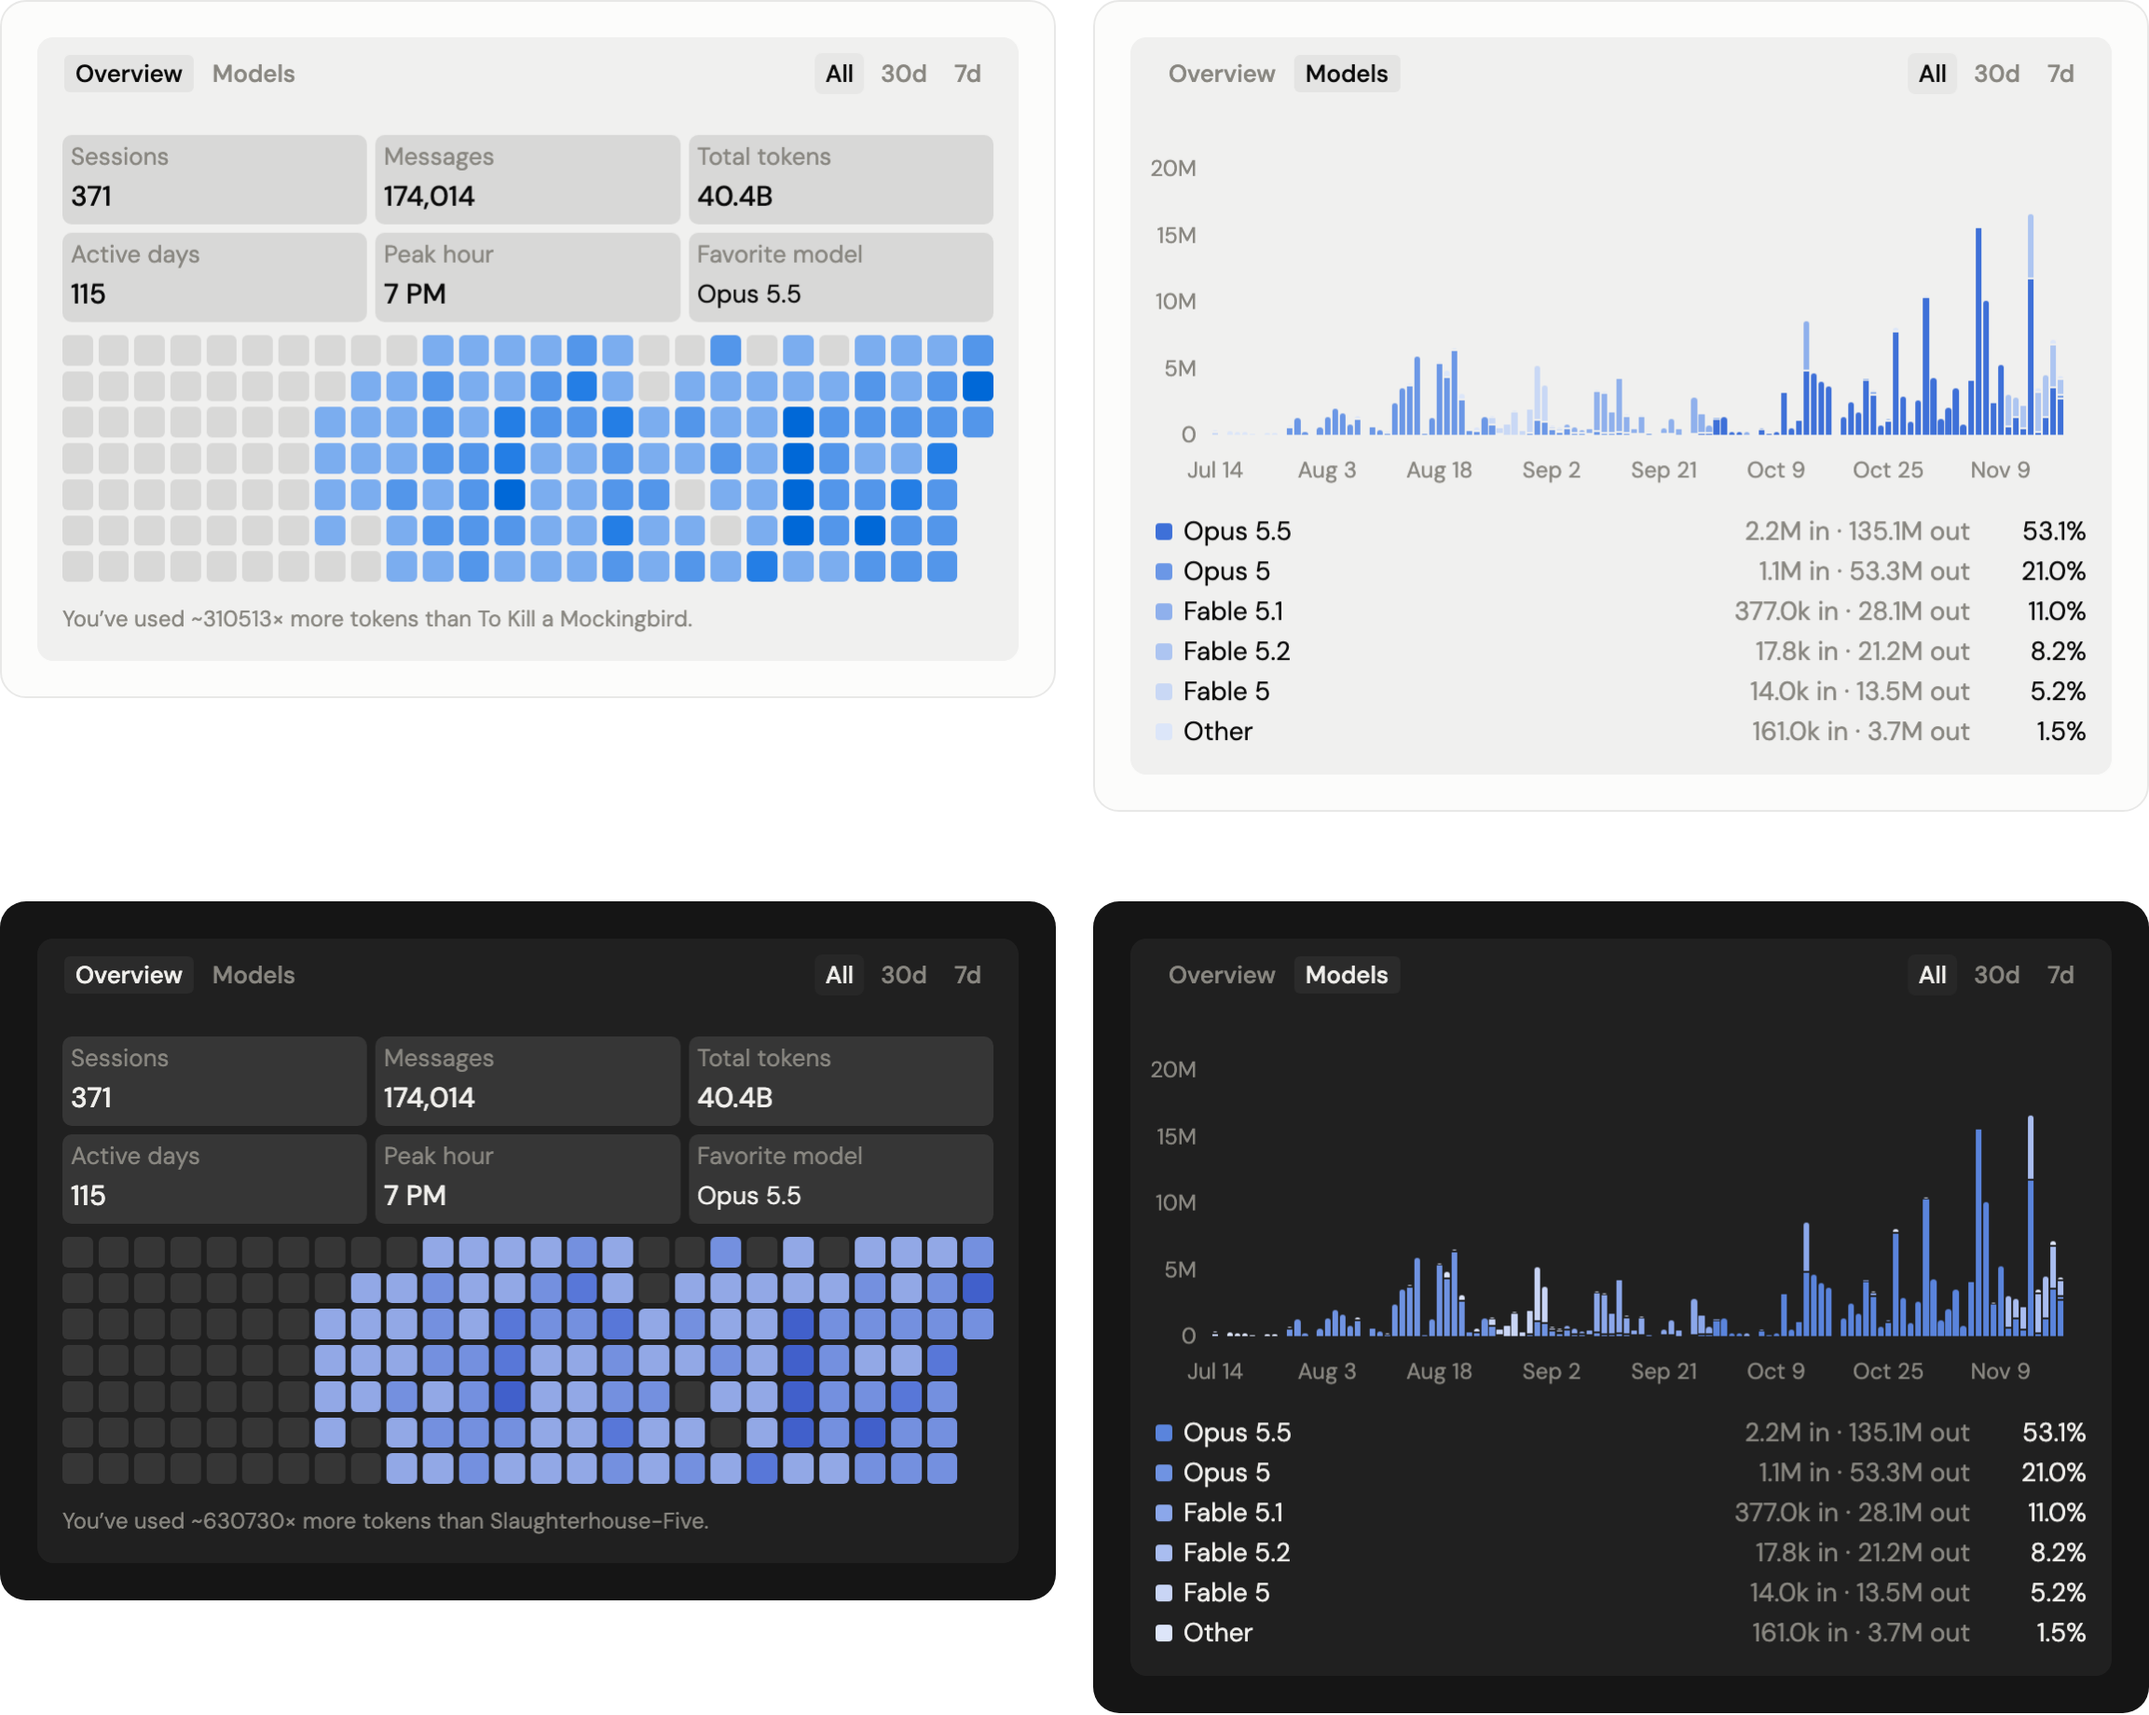
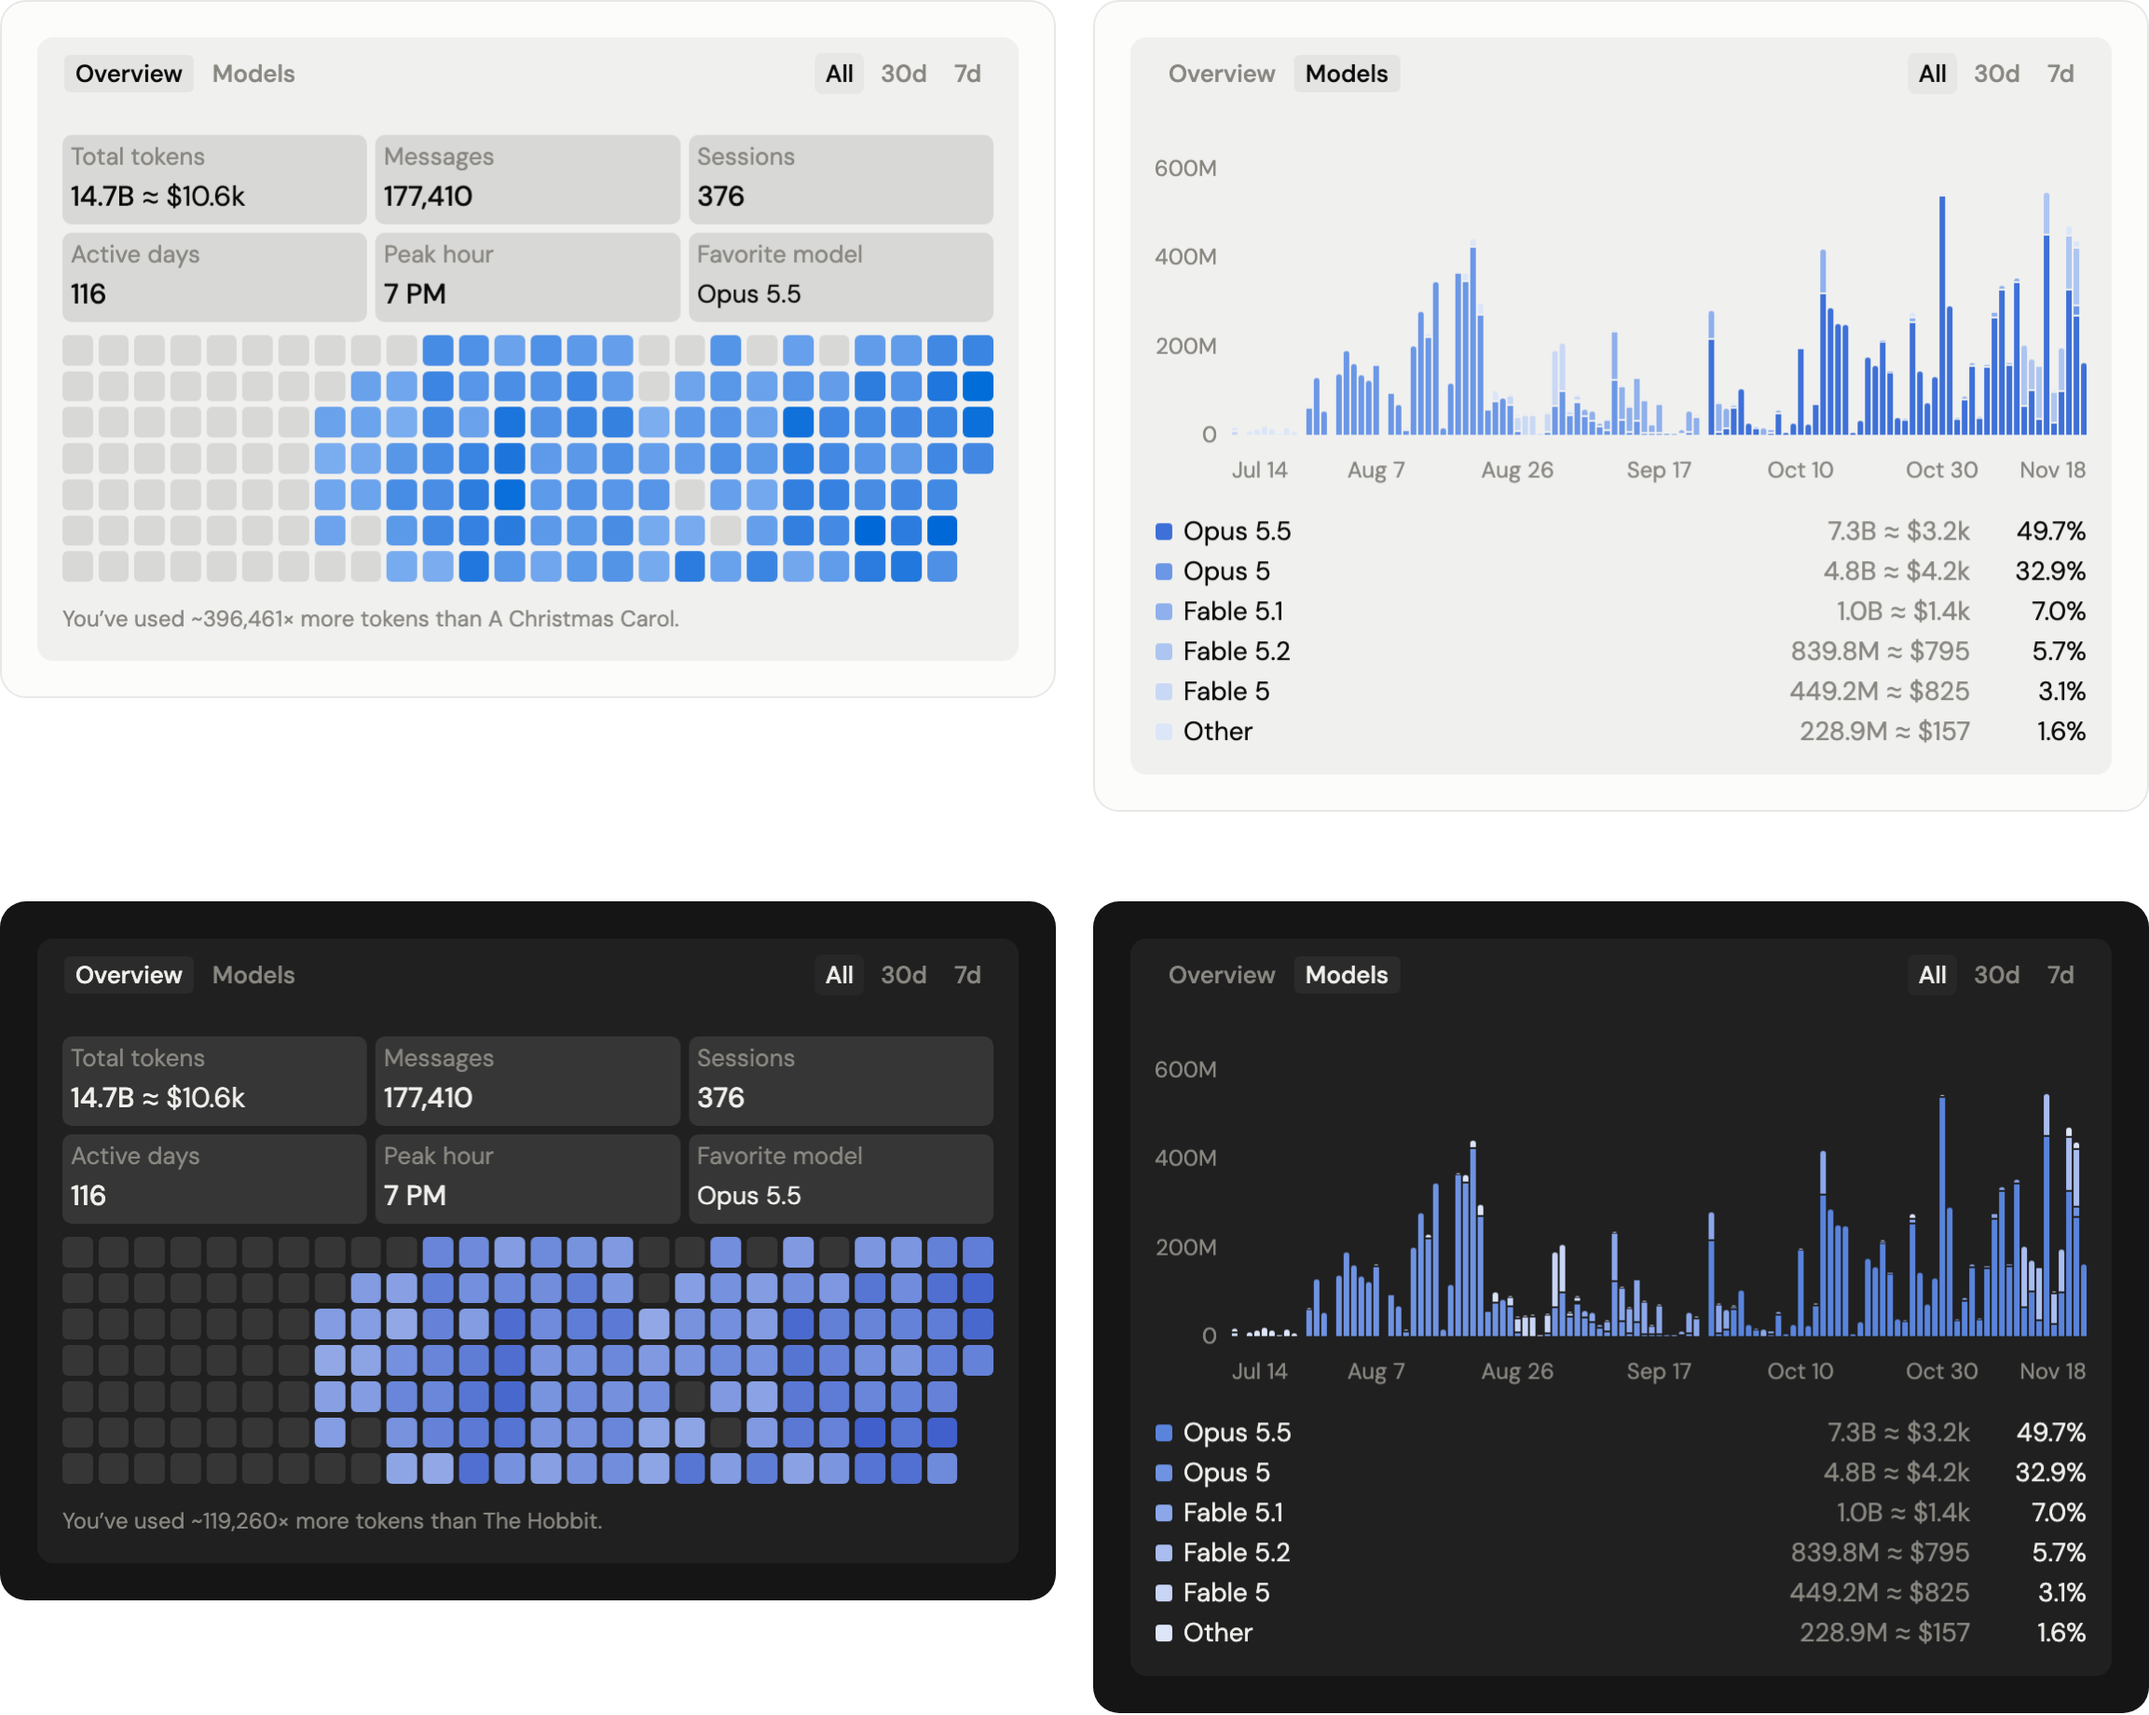
Activity grid: a smooth shade by the square root of the busiest day's share instead of four steps; thousands separated in the fact line; README picture rebuilt

diff --git a/tile.html b/tile.html
@@ -14,9 +14,8 @@
   --tile: rgb(var(--layer) / 0.1);
   --tab-on: rgb(var(--layer) / 0.05);
   --chip-on: rgb(var(--layer) / 0.035);
+  /* the grid's lightest and darkest shades, the days in between are mixed */
   --heat-1: #7badef;
-  --heat-2: #5396ea;
-  --heat-3: #247ee5;
   --heat-4: #0068d7;
   --m1: #3e70d8; --m2: #6b97e6; --m3: #8fb0ec; --m4: #adc5f1; --m5: #c9d8f5; --m6: #dce6f9;
   --tip-bg: #0b0b0b;
@@ -34,15 +33,13 @@
 @supports (color: color(display-p3 0 0 0)) {
   :root {
     --heat-1: color(display-p3 0.5255 0.6745 0.9176);
-    --heat-2: color(display-p3 0.3882 0.5804 0.8941);
-    --heat-3: color(display-p3 0.2510 0.4863 0.8706);
     --heat-4: color(display-p3 0.1490 0.4000 0.8157);
   }
 }
 @media (prefers-color-scheme: dark) {
   :root:not([data-theme="light"]) {
     --page: #151515; --ink: #f0efec; --muted: #898781; --layer: 252 252 251;
-    --heat-1: #92a8e6; --heat-2: #7490df; --heat-3: #5877d8; --heat-4: #4160cb;
+    --heat-1: #92a8e6; --heat-4: #4160cb;
     --m1: #5a84dc; --m2: #6f93e2; --m3: #8ba7ea; --m4: #a9bdf0; --m5: #c9d5f5; --m6: #dde5f9;
     --tip-bg: #f0efec; --tip-fg: #151515; --note-bg: #1d2a3d; --note-ink: #9ec5f4; --focus: #86b6ef;
     color-scheme: dark;
@@ -50,7 +47,7 @@
 }
 :root[data-theme="dark"] {
   --page: #151515; --ink: #f0efec; --muted: #898781; --layer: 252 252 251;
-  --heat-1: #92a8e6; --heat-2: #7490df; --heat-3: #5877d8; --heat-4: #4160cb;
+  --heat-1: #92a8e6; --heat-4: #4160cb;
   --m1: #5a84dc; --m2: #6f93e2; --m3: #8ba7ea; --m4: #a9bdf0; --m5: #c9d5f5; --m6: #dde5f9;
   --tip-bg: #f0efec; --tip-fg: #151515; --note-bg: #1d2a3d; --note-ink: #9ec5f4; --focus: #86b6ef;
   color-scheme: dark;
@@ -126,10 +123,7 @@ a { color: inherit; }
   gap: 3px; touch-action: manipulation;
 }
 .cell { aspect-ratio: 1; border-radius: 3px; background: var(--tile); min-width: 0; }
-.cell[data-l="1"] { background: var(--heat-1); }
-.cell[data-l="2"] { background: var(--heat-2); }
-.cell[data-l="3"] { background: var(--heat-3); }
-.cell[data-l="4"] { background: var(--heat-4); }
+.cell.on { background: color-mix(in oklab, var(--heat-4) var(--p), var(--heat-1)); }
 .cell.future { visibility: hidden; }
 .cell.out { opacity: 0.3; }
 
@@ -403,7 +397,7 @@ a { color: inherit; }
     if (state.factPick[state.range] === undefined) state.factPick[state.range] = Math.random();
     var book = books[Math.floor(state.factPick[state.range] * books.length)];
     var times = Math.floor(sum.total / book[1]);
-    return times >= 2 ? "You’ve used ~" + times + "× more tokens than " + book[0] + "."
+    return times >= 2 ? "You’ve used ~" + fmtInt(times) + "× more tokens than " + book[0] + "."
                       : "You’ve used about as many tokens as " + book[0] + ".";
   }
 
@@ -425,10 +419,10 @@ a { color: inherit; }
     renderModels(data, sum);
   }
 
-  // Shade = share of the busiest day's tokens in the grid: up to 25%, 50%, 75%, then above.
-  function level(n, max) {
-    if (!n || !max) return 0;
-    return Math.min(4, Math.ceil((4 * n) / max));
+  // Shade runs smoothly from the lightest blue to the darkest by the square root of the day's share
+  // of the busiest day's tokens: most days are far below the busiest, the root spreads them over the scale.
+  function shade(n, max) {
+    return n && max ? Math.min(1, Math.sqrt(n / max)) : 0;
   }
 
   // Days before the selected period fade out; the shade itself stays set by the whole grid.
@@ -455,8 +449,11 @@ a { color: inherit; }
       cell.dataset.date = key;
       if (key > todayKey) cell.classList.add("future");
       else if (start && key < start) cell.classList.add("out");
-      var l = row ? level(tokens[key], max) || (row.messages > 0 ? 1 : 0) : 0;
-      if (l) { cell.dataset.l = String(l); activeDays++; }
+      if (row && (tokens[key] > 0 || row.messages > 0)) {
+        cell.classList.add("on");
+        cell.style.setProperty("--p", (100 * shade(tokens[key], max)).toFixed(1) + "%");
+        activeDays++;
+      }
       frag.appendChild(cell);
     }
     el.replaceChildren(frag);
